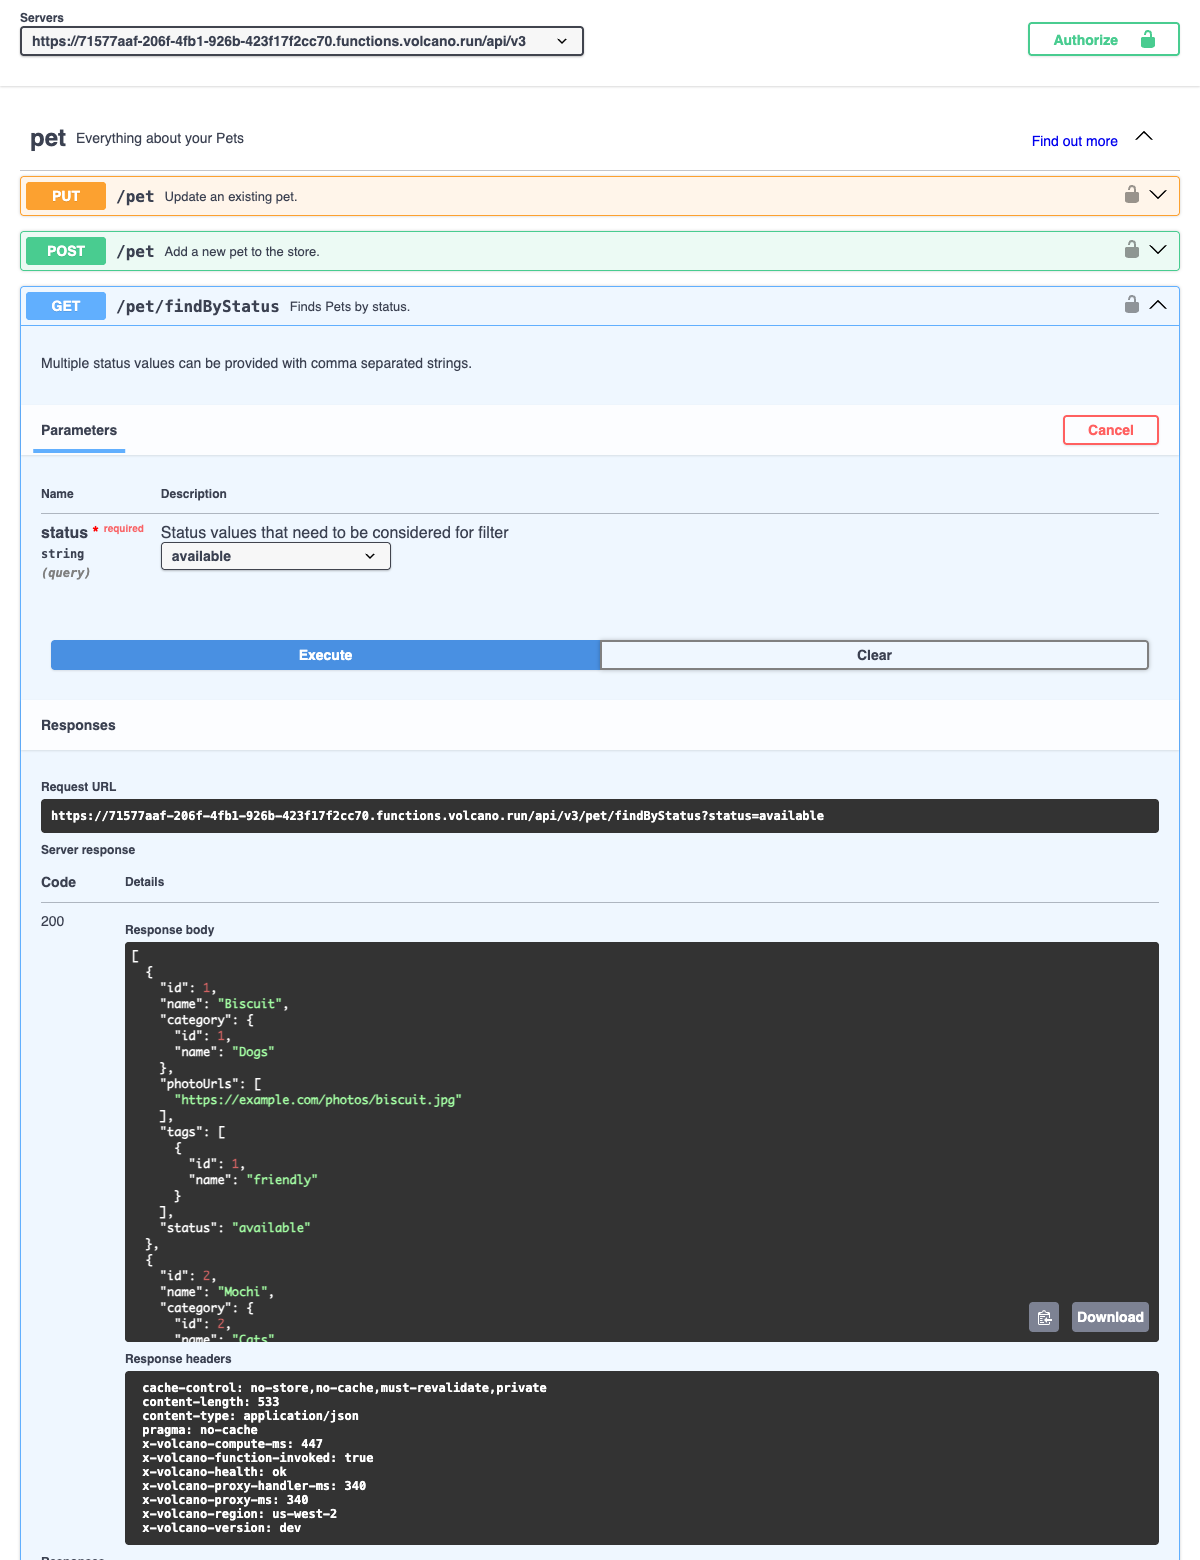
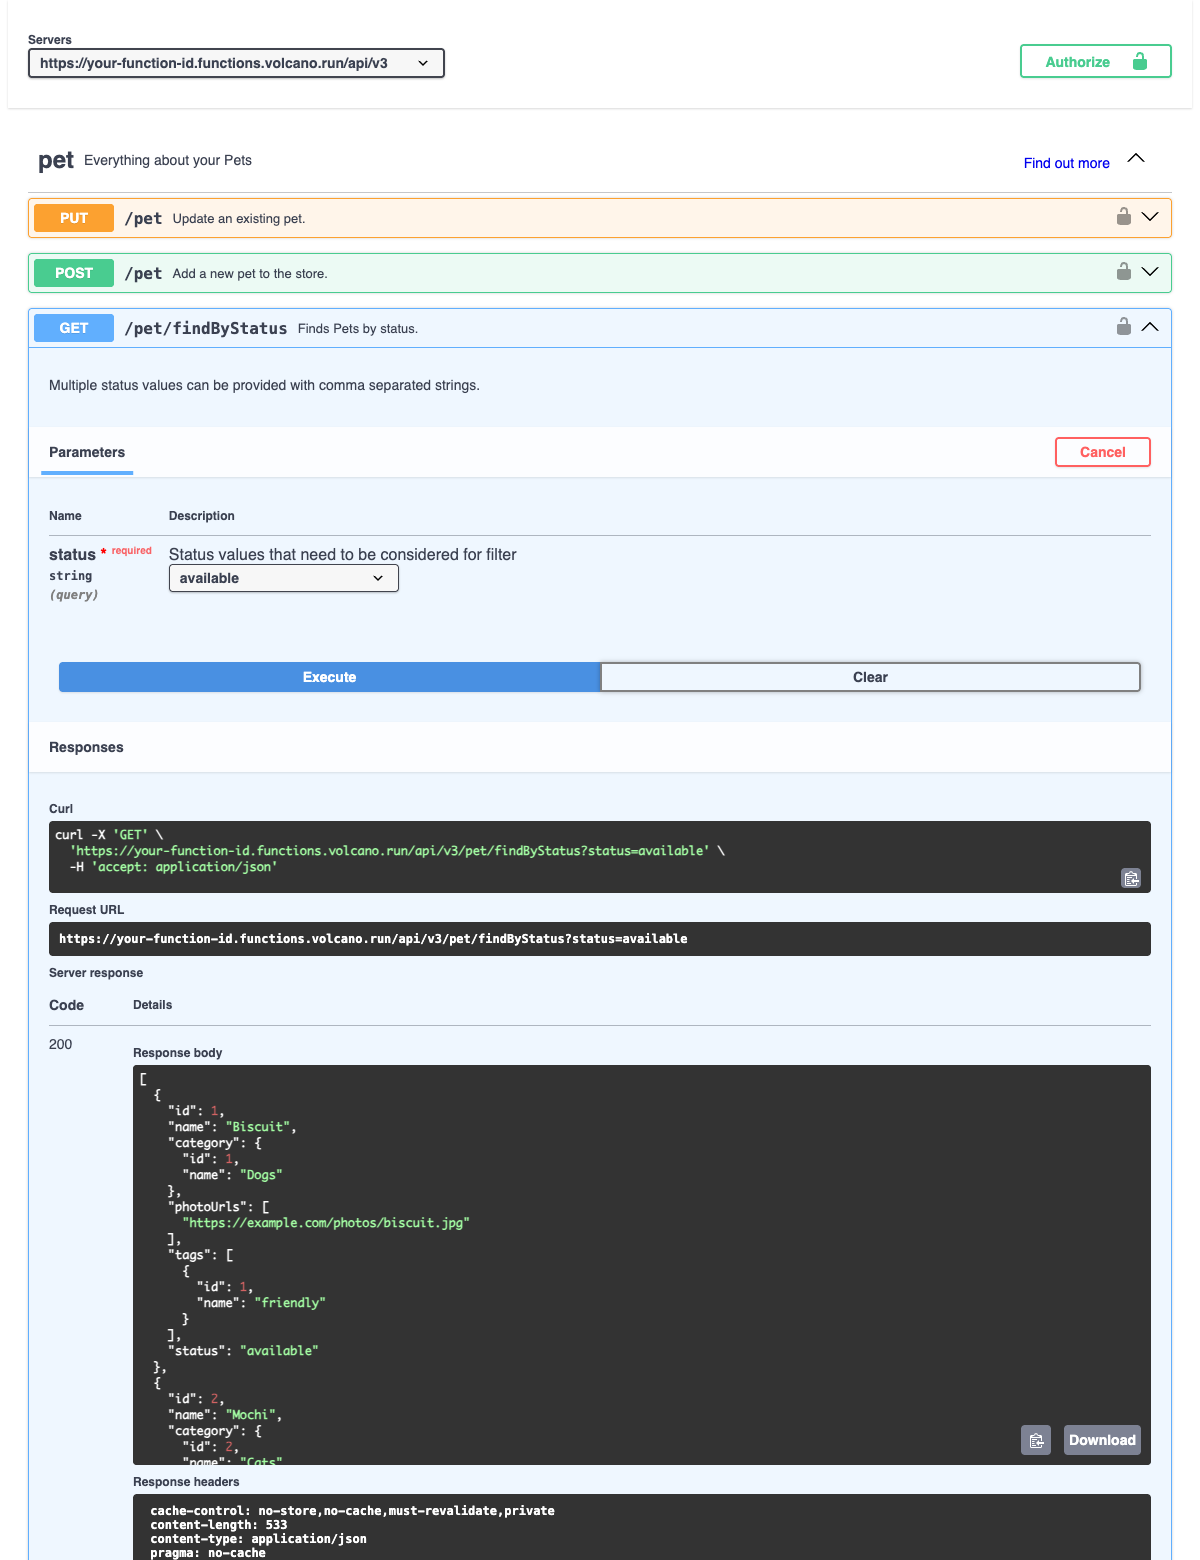
docs(cookbooks): petstore-api requires registered users for writes
Addresses the AI review: write policies use auth.role() = 'authenticated'
with explicit grants, the read URL is stored as the anon-role connection,
the SQL excerpt shows the DROP POLICY lines, and the screenshot no longer
shows the live function host.

Changed region(s): [[0.0, 0.0, 0.9867, 1.0], [0.8633, 0.0, 0.9867, 0.0615], [0.8633, 0.2769, 0.9867, 0.3077]]

diff --git a/content/cookbooks/petstore-api.md b/content/cookbooks/petstore-api.md
@@ -15,9 +15,9 @@ Tested on Volcano CLI 0.54.0, Node 24.9.0, pg 8.23.1; last verified 2026-10-30 o
 
 ## What it does
 
-You have an OpenAPI spec, or you're learning with the Swagger Petstore one, and want a real API behind it to call from Insomnia, without hand-writing the backend. Your coding agent builds the `pet` endpoints on Postgres and deploys them to Volcano. Reads are public; only a pet's creator can change or delete it.
+Your coding agent turns the Swagger Petstore OpenAPI spec into a live API on Postgres, deployed to Volcano, that you call from Insomnia. Reads are public. Only the registered user who created a pet can change or delete it.
 
-![Swagger UI with the Petstore spec pointed at the deployed function URL: GET /pet/findByStatus?status=available answers 200 with the seeded pets, starting with Biscuit and Mochi](/cookbooks/petstore-api.png)
+![Swagger UI calling the deployed API, function host shown as a placeholder: GET /pet/findByStatus?status=available answers 200 with the seeded pets](/cookbooks/petstore-api.png)
 
 ## What you need
 
@@ -38,17 +38,18 @@ The spec is https://petstore3.swagger.io/api/v3/openapi.json. I will import that
 - Store pets in a Postgres table on Volcano. Pet ids are integers the database assigns. Seed five or six pets with a mix of statuses, so the first GET returns rows.
 - Serve it from one public Volcano Function in HTTP mode, with http_auth_mode none, so GET requests work with no Authorization header.
 - Reads are public. POST, PUT and DELETE need "Authorization: Bearer <access token>" from a Volcano email and password sign-in; without a valid token answer 401.
+- Writes need a registered email-and-password user, never an anonymous session: answer 401 to an anonymous session's token, and make the write policies refuse it too.
 - A pet belongs to the user who created it. Only that user can update or delete it: answer 403 when the pet exists but belongs to someone else. Enforce this with row-level security, so the database refuses another user's change even if the function code is wrong. Run writes as the signed-in user, never with a full-access connection. Seeded pets belong to no one.
 - Refuse bad input with 400 or 422 before touching the database: name at most 100 characters, at most 10 photoUrls and 10 tags, status one of available, pending, sold. Allow at most 100 pets per user, enforced in the database.
 
 Create a new Volcano project named petstore-api, deploy to production and give me the base URL to put in Insomnia (ending in /api/v3), plus the exact sign-in request that returns a token. Before you finish, test the live API: GET /pet/findByStatus?status=available with no header returns seeded pets; POST /pet with no token gets 401; sign up two throwaway users; user A creates a pet; user B can't update or delete it (and it is unchanged afterwards); user A can.
 ```
 
-Tested with Claude Code 2.1.314 (claude-opus-5-5) and Codex CLI 0.163.0, each with Volcano plugin 0.2.47. Both worked on the first try and passed all ten smoke checks. Claude Code took 14 minutes and $1.81. Codex took 8 minutes.
+Tested with Claude Code 2.1.314 (claude-opus-5-5) and Codex CLI 0.163.0, each with Volcano plugin 0.2.48. Both worked on the first try and passed all twelve smoke checks, including the anonymous-session ones. Claude Code took 17 minutes and $1.87. Codex took 15 minutes.
 
 ## Build it yourself
 
-The API is one Volcano Function in HTTP mode. With `http_auth_mode: none`, requests reach it with their `Authorization` header and the function decides what needs a token:
+The API is one Volcano Function in HTTP mode. With `http_auth_mode: none`, the function sees each request's `Authorization` header and decides what needs a token:
 
 ```yaml
 # volcano/volcano-config.yaml
@@ -60,7 +61,7 @@ functions:
     http_auth_mode: none
 ```
 
-Ownership lives in the table. Seeded rows have no owner, so nobody can change them:
+Ownership lives in the table, and seeded rows have no owner. Write policies check `auth.role() = 'authenticated'`, a registered user. `auth.uid() IS NOT NULL` would also admit [anonymous sessions](/platform/databases/auth-helpers):
 
 ```sql
 CREATE TABLE IF NOT EXISTS pets (
@@ -74,17 +75,32 @@ CREATE TABLE IF NOT EXISTS pets (
     created_at TIMESTAMPTZ NOT NULL DEFAULT NOW()
 );
 ALTER TABLE pets ENABLE ROW LEVEL SECURITY;
+GRANT SELECT ON pets TO anon;
+GRANT SELECT, INSERT, UPDATE, DELETE ON pets TO authenticated;
+DROP POLICY IF EXISTS pets_select_all ON pets;
 CREATE POLICY pets_select_all ON pets FOR SELECT USING (true);
-CREATE POLICY pets_insert_own ON pets FOR INSERT WITH CHECK (auth.uid() IS NOT NULL AND owner_id = auth.uid());
-CREATE POLICY pets_update_own ON pets FOR UPDATE USING (auth.uid() IS NOT NULL AND owner_id = auth.uid()) WITH CHECK (owner_id = auth.uid());
-CREATE POLICY pets_delete_own ON pets FOR DELETE USING (auth.uid() IS NOT NULL AND owner_id = auth.uid());
+DROP POLICY IF EXISTS pets_insert_own ON pets;
+CREATE POLICY pets_insert_own ON pets FOR INSERT
+  WITH CHECK (auth.role() = 'authenticated' AND owner_id = auth.uid());
+DROP POLICY IF EXISTS pets_update_own ON pets;
+CREATE POLICY pets_update_own ON pets FOR UPDATE
+  USING (auth.role() = 'authenticated' AND owner_id = auth.uid())
+  WITH CHECK (auth.role() = 'authenticated' AND owner_id = auth.uid());
+DROP POLICY IF EXISTS pets_delete_own ON pets;
+CREATE POLICY pets_delete_own ON pets FOR DELETE
+  USING (auth.role() = 'authenticated' AND owner_id = auth.uid());
 ```
 
-A write checks the token, then sends the change to the database API with that token, so the policies run as that user:
+Each statement is its own numbered file in `volcano/migrations/`, and every file reruns on each deploy, hence the `DROP` lines.
+
+A write checks the token, refuses an anonymous session, then sends the change to the database API with that token, so the policies run as that user:
 
 ```js
 const res = await fetch(`${API_URL}/auth/user`, { headers: { Authorization: `Bearer ${token}` } });
-if (!res.ok) return { statusCode: 401, body: JSON.stringify({ code: 401, type: "error", message: "Unauthorized" }) };
+if (!res.ok) return unauthorized();
+// The token is valid, so its claims can be read. An anonymous session's role is "anonymous".
+const { role } = JSON.parse(Buffer.from(token.split(".")[1], "base64url").toString());
+if (role !== "authenticated") return unauthorized();
 
 await fetch(`${API_URL}/databases/app/query/update`, {
   method: "POST",
@@ -93,14 +109,22 @@ await fetch(`${API_URL}/databases/app/query/update`, {
 });
 ```
 
-Reads use a Postgres connection as the `anon` role. Its connection string, `DATABASE_READ_URL`, holds the database password: keep it in `volcano/cloud.env` only, never in the repo or a client. To deploy by hand:
+Reads use a Postgres connection as the `anon` role:
+
+```js
+const url = new URL(process.env.DATABASE_READ_URL);
+url.searchParams.set("application_name", "volcano_user_access"); // anon role, RLS on
+const pool = new Pool({ connectionString: url.toString() });
+```
+
+`--show-connection-string` prints a full-access string (`application_name=volcano_full_access`) that bypasses RLS. Change it to `volcano_user_access` before saving it as `DATABASE_READ_URL` in `volcano/cloud.env`, so the variable alone opens only the anon role. It still holds the database password. To deploy by hand:
 
 ```sh
 volcano init javascript
 volcano projects create petstore-api
 volcano use petstore-api
 volcano cloud databases create app --region us-east-1 --pg-version 16
-volcano cloud databases get app --show-connection-string   # into volcano/cloud.env as DATABASE_READ_URL
+volcano cloud databases get app --show-connection-string   # volcano_full_access -> volcano_user_access, then DATABASE_READ_URL
 volcano cloud deploy --env-file volcano/cloud.env --with-migrations -d app
 volcano cloud functions get petstore   # base URL: invoke_url + api/v3
 ```
@@ -108,8 +132,8 @@ volcano cloud functions get petstore   # base URL: invoke_url + api/v3
 ## Check that it works
 
 1. In your Insomnia project, click **Import**, choose **Url**, paste `https://petstore3.swagger.io/api/v3/openapi.json`, click **Scan**, then **Import**.
-2. The spec's server is the relative `/api/v3`, so the imported `base_url` is built from `scheme`, `host` and `base_path` in the **OpenAPI env** environment. Set `scheme` to `https` and `host` to your function's host, such as `<function-id>.functions.volcano.run`. Leave `base_path` as `/api/v3`.
-3. Every imported pet request carries the spec's OAuth 2.0 auth, which would start a sign-in flow at petstore3.swagger.io. Open **Finds Pets by status.**, set its auth to **None**, tick the `status` parameter (`available`) and send. You get `200` and the pets your agent seeded, each shaped like the spec's `Pet`.
+2. In the **OpenAPI env** environment, set `scheme` to `https` and `host` to your function's host, such as `<function-id>.functions.volcano.run`. Leave `base_path` as `/api/v3`.
+3. Imported requests carry the spec's OAuth 2.0 auth, which would start a sign-in at petstore3.swagger.io. Open **Finds Pets by status.**, set its auth to **None**, tick `status` (`available`) and send: `200` and the seeded pets.
 4. Get a token with the anon key from `volcano projects keys anon list`. Send this to `/auth/signup` once to create the account (passwords need 15 characters by default), then to `/auth/signin`:
 
    ```http
@@ -121,22 +145,21 @@ volcano cloud functions get petstore   # base URL: invoke_url + api/v3
    ```
 
    Copy `access_token`. It lasts an hour.
-5. Open **Add a new pet to the store.**, set its auth to **Bearer Token** with that token and send the generated body: `200` and the new pet with the id the database gave it. With auth set to **None**: `401`.
+5. Open **Add a new pet to the store.**, set its auth to **Bearer Token** with that token and send the generated body: `200` and the new pet with the id the database gave it. With auth set to **None**, or a token from an anonymous session: `401`.
 
 ## Why it's built this way
 
-An OpenAPI spec pins down paths and shapes but says nothing about who may change what. When this recipe was built, petstore3.swagger.io accepted a `POST /pet` and a `DELETE /pet/{petId}` with no credentials at all: fine for a sandbox, wrong for anything with users. Ownership is the rule to spell out in the prompt and put in the database, where it holds however the function code changes. Both test runs got the spec's shapes right unaided; the two-user check is what proved ownership.
+An OpenAPI spec pins down paths and shapes but says nothing about who may change what. When this recipe was built, petstore3.swagger.io accepted `POST /pet` and `DELETE /pet/{petId}` with no credentials: fine for a sandbox, wrong for anything with users. Spell ownership out in the prompt and put it in the database, where it holds however the function code changes. The agents got the shapes right unaided; the two-user and anonymous-session checks proved the rules.
 
 Where the API deviates from the spec:
 
-- Auth: a Volcano access token as a bearer token on writes and nothing on reads, in place of the spec's OAuth 2 `petstore_auth` and `api_key` header.
+- Auth: a registered user's Volcano access token as a bearer token on writes and nothing on reads, in place of the spec's OAuth 2 `petstore_auth` and `api_key` header.
 - Extra statuses: `401`, `403`, and `404` on `POST` and `DELETE /pet/{petId}`. `DELETE` returns an empty body.
-- JSON only, no XML or form bodies. `POST /pet` ignores any `id` in the body.
+- JSON only. `POST /pet` ignores any `id` in the body.
 - No `uploadImage`, `store` or `user`. `user` would duplicate Volcano auth.
 
 Other notes:
 
-- Volcano's database API needs a signed-in session even for a public read, so reads use the [direct connection with `application_name=volcano_user_access`](/platform/databases/direct-connection#authentication--user-impersonation). Codex instead signed the function in as an anonymous user: no password, but anonymous sign-ins on project-wide.
-- An Express app on Fly or Render with Postgres, or a Cloudflare Worker with D1, works too, with the ownership check and the user store in your code.
-- The first request after a deploy or an idle spell took 7 to 10 seconds, warm requests about 0.55 seconds.
-- Migrations are one statement per file and rerun on every deploy, so each `CREATE POLICY` follows a `DROP POLICY IF EXISTS`.
+- Volcano's database API needs a signed-in session even for a public read, so reads use the [direct connection with `application_name=volcano_user_access`](/platform/databases/direct-connection#authentication--user-impersonation). The Codex run signed the function in as an anonymous user instead, which turns anonymous sign-ins on for the whole project. Its write policies refuse anonymous sessions, so that holds too.
+- An Express app on Fly or Render with Postgres, or a Cloudflare Worker with D1, works too, with ownership and users in your code.
+- The first request after a deploy or an idle spell took 7 to 13 seconds, warm requests about 0.55 seconds.
